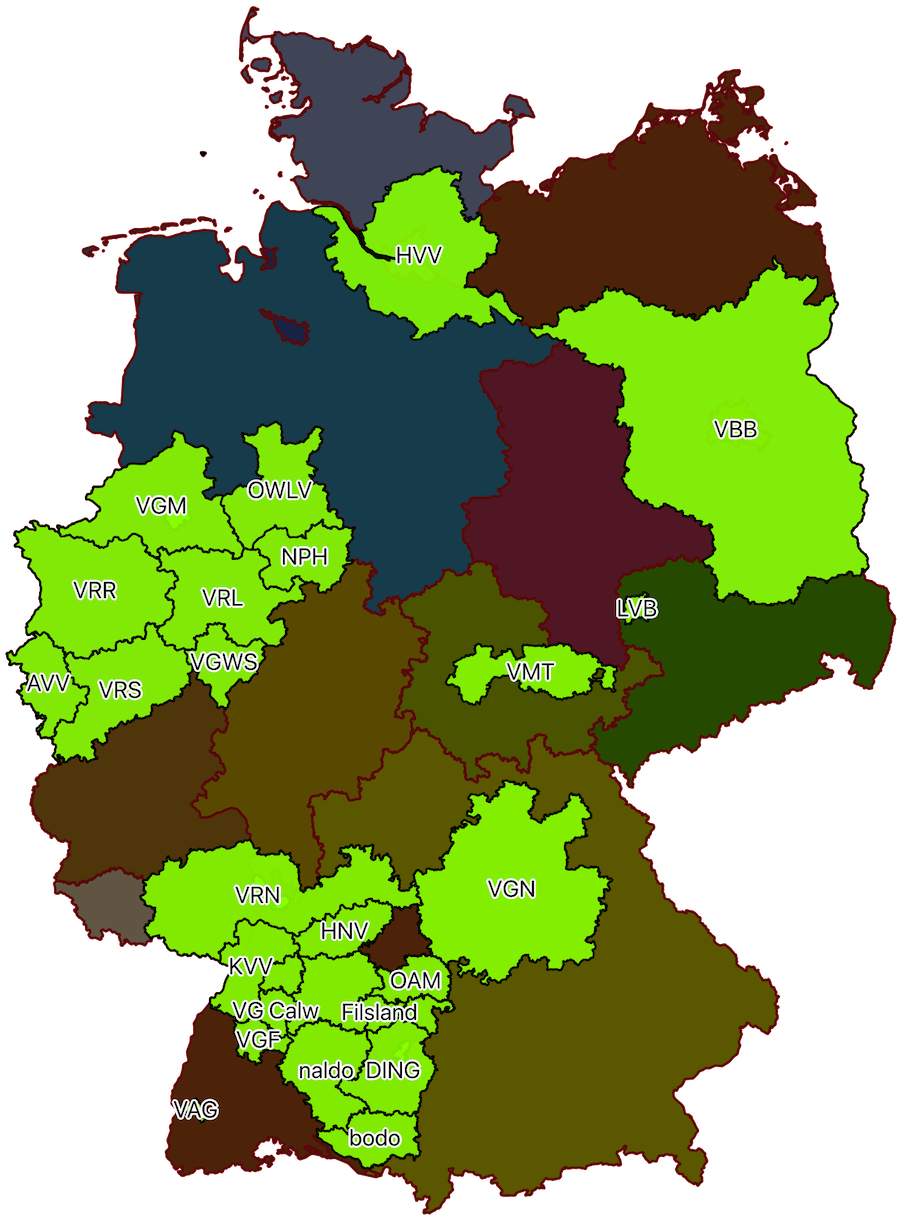
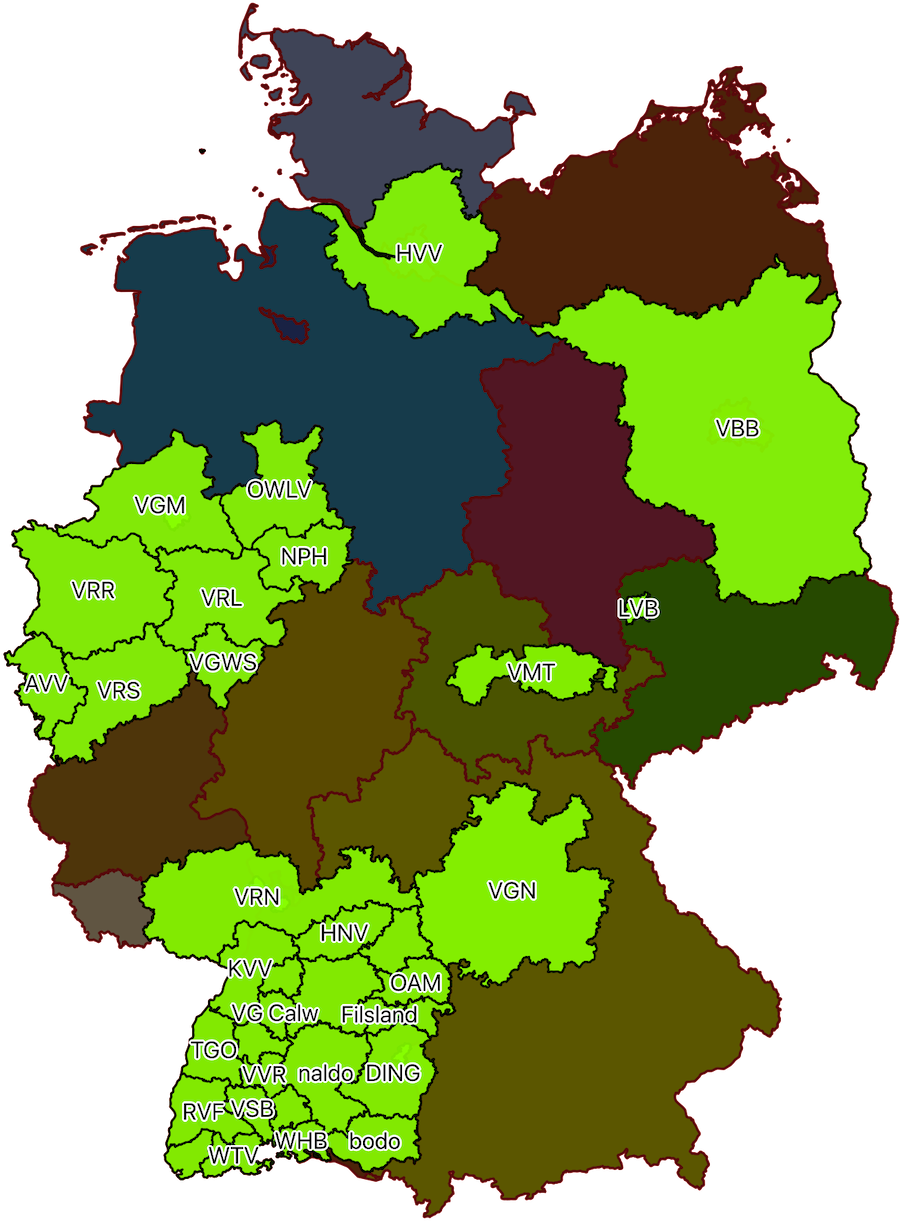
Letzte kreise in BW hinzugefügt inkl Karte

diff --git a/_includes/how.html b/_includes/how.html
@@ -93,7 +93,7 @@
                                         <br>
                                         2019-07: <a href="https://www.vag-freiburg.de/service-infos/downloads/gtfs-daten">VAG Freiburg</a>
                                         <br>
-                                        2019-07: Über das <a href="https://www.nvbw.de/aufgaben/digitale-mobilitaet/fahrplandaten/">Portal der nvbw</a> GTFS <a href="https://www.nvbw.de/aufgaben/digitale-mobilitaet/fahrplandaten-mit-liniennetz-nach-verkehrsverbund/">mit</a> und <a href="https://www.nvbw.de/aufgaben/digitale-mobilitaet/fahrplandaten-ohne-liniennetz-nach-verkehrsverbund/">ohne</a> Linienverläufe: bodo, DING, Filsland Verkehrsverbund, HNV, HVG, naldo, OstalbMobil, DB ZugBus Regionalverkehr Alb-Bodensee, Rexer, Regional Bus Stuttgart, Stadtwerke Heilbronn, VG Calw, Verkehrsverbund Pforzheim-Enzkreis, Verkehrs-Gemeinschaft Landkreis Freudenstadt
+                                        2019-07: Über das <a href="https://www.nvbw.de/aufgaben/digitale-mobilitaet/fahrplandaten/">Portal der nvbw</a> GTFS <a href="https://www.nvbw.de/aufgaben/digitale-mobilitaet/fahrplandaten-mit-liniennetz-nach-verkehrsverbund/">mit</a> und <a href="https://www.nvbw.de/aufgaben/digitale-mobilitaet/fahrplandaten-ohne-liniennetz-nach-verkehrsverbund/">ohne</a> Linienverläufe: bodo, DING, Filsland Verkehrsverbund, HNV, HVG, naldo, OstalbMobil, DB ZugBus Regionalverkehr Alb-Bodensee, Rexer, Regional Bus Stuttgart, Stadtwerke Heilbronn, VG Calw, Verkehrsverbund Pforzheim-Enzkreis, Verkehrs-Gemeinschaft Landkreis Freudenstadt, KV-SHA, TGO, und eigentlich ganz Baden-Württemberg.
                                         <br>
                                         2019-07: <a href="https://www.opendata-oepnv.de/dataset/soll-fahrplandaten-nwl">NWL Zweckverband Nahverkehr Westfalen-Lippe</a> mit den Verbünden Verkehrsgemeinschaft Münsterland, Nahverkehrsverbund Paderborn-Höxter, OWL Verkehr, Verkehrsgemeinschaft Ruhr-Lippe und Verkehrsgemeinschaft Westfalen-Süd
                                         <br>
